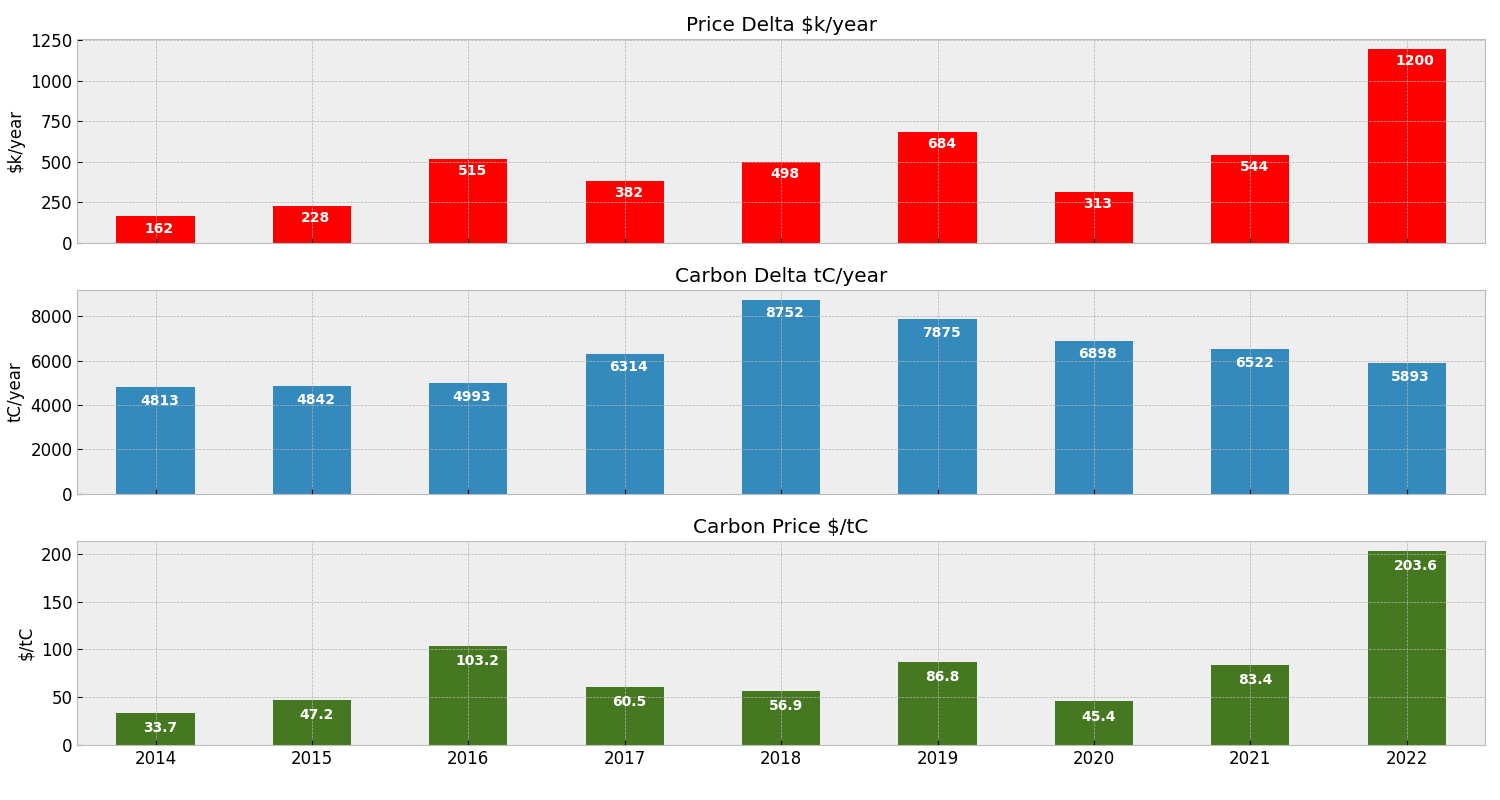
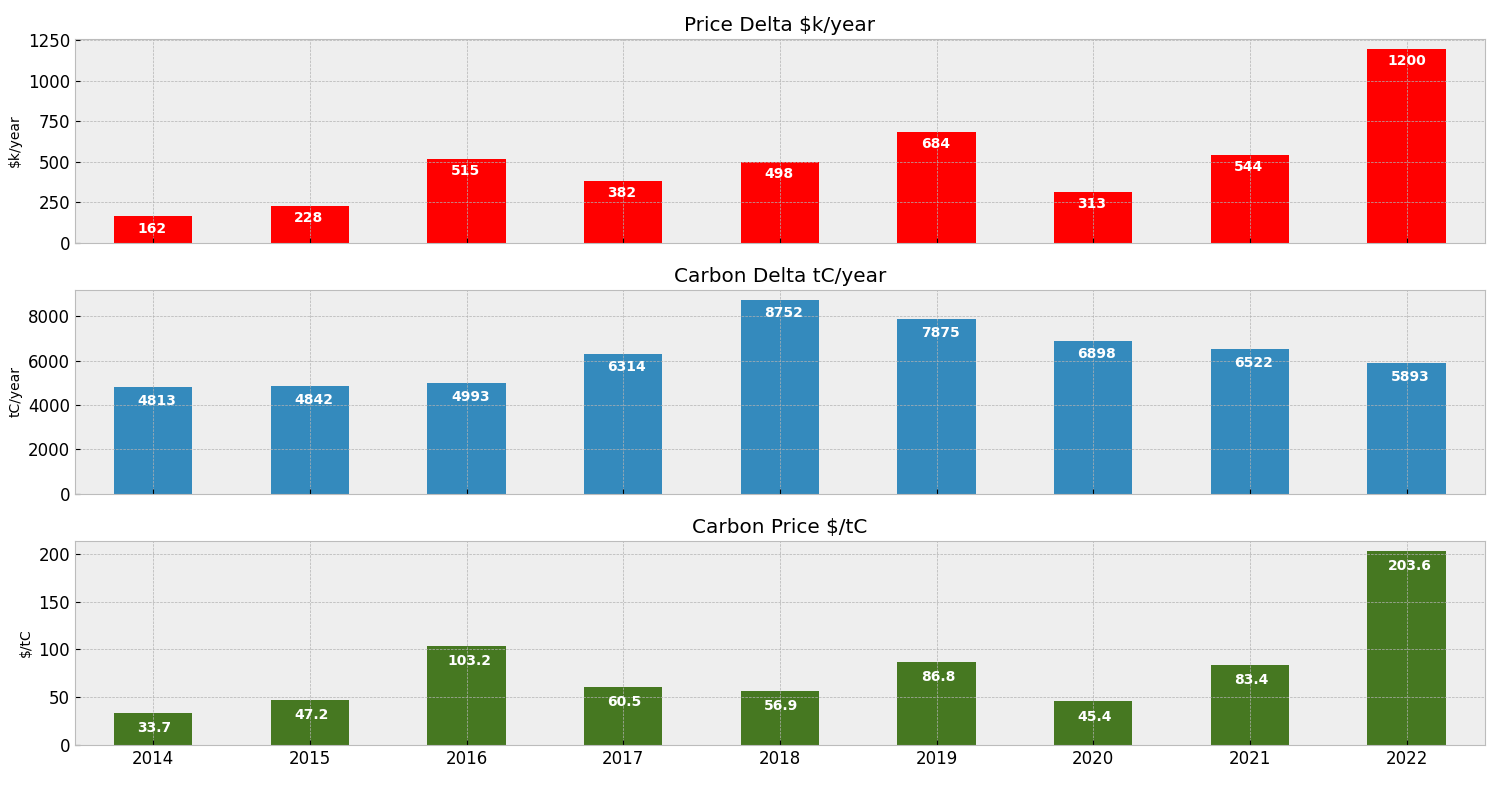
fix bar label position

diff --git a/results.py b/results.py
@@ -155,7 +155,19 @@ def plot_annual(annual):
 
     axes[0].set_title("Price Delta $k/year")
     for i, v in enumerate(annual["variance-profit"]):
-        axes[0].text(i - 0.07, v - 100, f"{v:.0f}", fontweight="bold", color="white")
+        vs = f"{v:.0f}"
+
+        if len(vs) == 4:
+            adj = 0.12
+        else:
+            adj = 0.1
+        axes[0].text(
+            i - adj,
+            v - 100,
+            vs,
+            fontweight="bold",
+            color="white"
+        )
     annual.plot(ax=axes[0], y="variance-profit", kind="bar", color="red")
 
     axes[1].set_title("Carbon Delta tC/year")
@@ -167,7 +179,19 @@ def plot_annual(annual):
     axes[2].set_title("Carbon Price $/tC")
     annual.plot(ax=axes[2], y="carbon-price", kind="bar", color="#467821")
     for i, v in enumerate(annual["carbon-price"]):
-        axes[2].text(i - 0.08, v - 20, f"{v:.1f}", fontweight="bold", color="white")
+        vs = f"{v:.1f}"
+        if len(vs) == 5:
+            adj = 0.12
+        else:
+            adj = 0.1
+
+        axes[2].text(
+            i - adj,
+            v - 20,
+            vs,
+            fontweight="bold",
+            color="white"
+        )
 
     axes[2].set_xlabel("")
 
@@ -186,6 +210,7 @@ def plot_annual(annual):
     f.savefig(
         "/Users/adam/adgefficiency.github.io/assets/space-between-2023/annual.png"
     )
+    f.savefig("./static/annual.png")
 
 
 if __name__ == "__main__":
